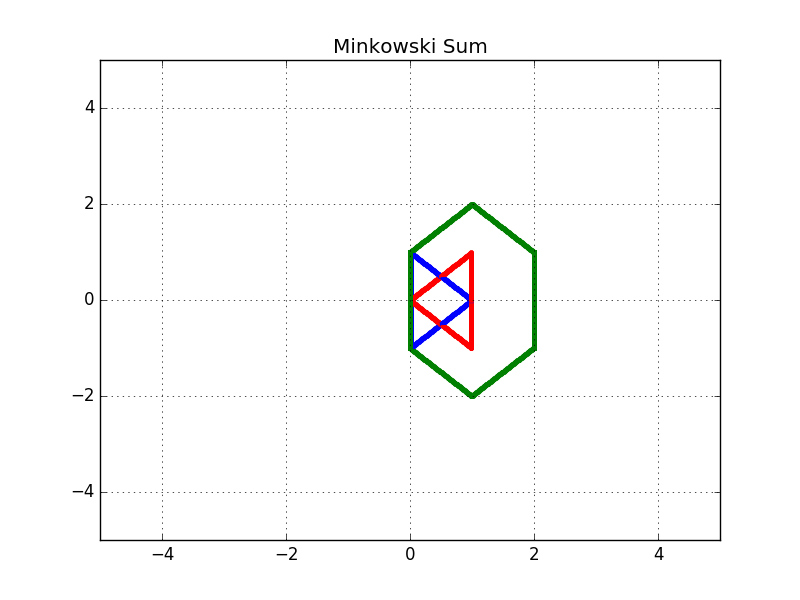
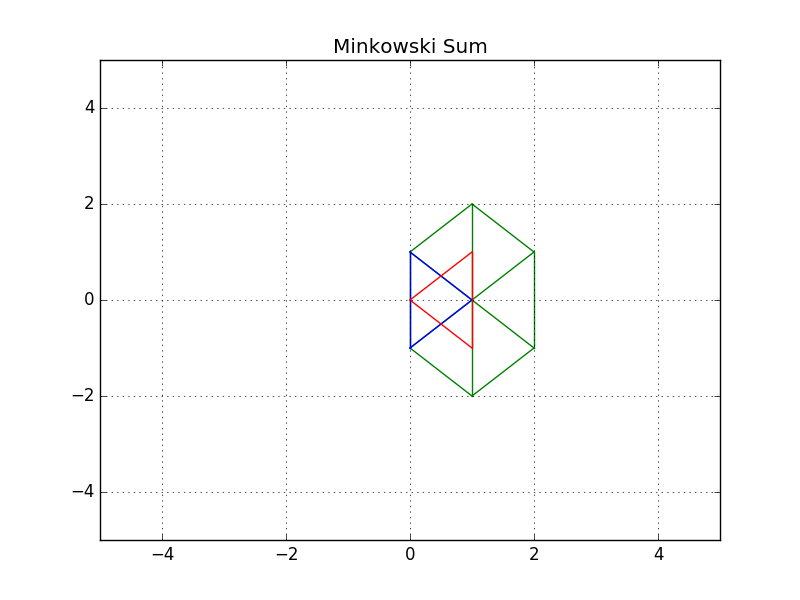
Updated Graphics

Changed region(s): [[0.5, 0.33, 0.6875, 0.66], [0.625, 0.6, 0.6562, 0.63]]

diff --git a/minkowski_sum.cpp b/minkowski_sum.cpp
@@ -7,7 +7,7 @@ using namespace std;
 namespace plt = matplotlibcpp;
 
 // Print 2D vectors coordinate values
-void print2DVector(vector<vector<int> > vec)
+void print2DVector(vector<vector<double> > vec)
 {
     for (int i = 0; i < vec.size(); ++i) {
         cout << "(";
@@ -22,12 +22,12 @@ void print2DVector(vector<vector<int> > vec)
 }
 
 // Check for duplicate inside a 2D vector and delete them
-vector<vector<int> > delete_duplicate(vector<vector<int> > C)
+vector<vector<double> > delete_duplicate(vector<vector<double> > C)
 {
     // Sort the C vector
     sort(C.begin(), C.end());
     // Initialize a non duplicated vector
-    vector<vector<int> > Cn;
+    vector<vector<double> > Cn;
     for (int i = 0; i < C.size() - 1; i++) {
         // Check if it's a duplicate coordinate
         if (C[i] != C[i + 1]) {
@@ -39,13 +39,13 @@ vector<vector<int> > delete_duplicate(vector<vector<int> > C)
 }
 
 // Compute the minkowski sum of two vectors
-vector<vector<int> > minkowski_sum(vector<vector<int> > A, vector<vector<int> > B)
+vector<vector<double> > minkowski_sum(vector<vector<double> > A, vector<vector<double> > B)
 {
-    vector<vector<int> > C;
+    vector<vector<double> > C;
     for (int i = 0; i < A.size(); i++) {
         for (int j = 0; j < B.size(); j++) {
             // Compute the current sum
-            vector<int> Ci = { A[i][0] + B[j][0], A[i][1] + B[j][1] };
+            vector<double> Ci = { A[i][0] + B[j][0], A[i][1] + B[j][1] };
             // Push it to the C vector
             C.push_back(Ci);
         }
@@ -54,8 +54,45 @@ vector<vector<int> > minkowski_sum(vector<vector<int> > A, vector<vector<int> > 
     return C;
 }
 
+// Workout the combination: http://rosettacode.org/wiki/Combinations#C.2B.2B
+vector<vector<double> > generate_combinations(int N)
+{
+    int K = 2;
+    vector<vector<double> > comb;
+    std::string bitmask(K, 1); // K leading 1's
+    bitmask.resize(N, 0); // N-K trailing 0's
+
+    // print integers and permute bitmask
+    do {
+        vector<double> combi = { 0, 0 };
+        int j = 0;
+        for (int i = 0; i < N; ++i) // [0..N-1] integers
+        {
+            if (bitmask[i]) {
+                combi[j] = i;
+                j++;
+            }
+        }
+        comb.push_back(combi);
+    } while (std::prev_permutation(bitmask.begin(), bitmask.end()));
+
+    return comb;
+}
+
+// Process the combinations of a shape and plot its coordinates
+void plot(vector<vector<double> > vec, string color)
+{
+
+    vector<vector<double> > comb;
+    comb = generate_combinations(vec.size());
+    for (int i = 0; i < comb.size(); i++) {
+        if (abs(vec[comb[i][0]][1] - vec[comb[i][1]][1]) <= 2 && abs(vec[comb[i][0]][0] - vec[comb[i][1]][0]) <= 1)
+            plt::plot({ vec[comb[i][0]][0], vec[comb[i][1]][0] }, { vec[comb[i][0]][1], vec[comb[i][1]][1] }, color);
+    }
+}
+
 // Draw A, B and C shapes
-void draw_shapes()
+void draw_shapes(vector<vector<double> > A, vector<vector<double> > B, vector<vector<double> > C)
 {
     //Graph Format
     plt::title("Minkowski Sum");
@@ -63,50 +100,14 @@ void draw_shapes()
     plt::ylim(-5, 5);
     plt::grid(true);
 
-    // Define precision for floating point values
-    double prec = 0.01;
+    // Draw configuration space C
+    plot(C, "g-");
 
-    // Loop through all the pixels and draw the shapes
-    for (double x = 0; x <= 2; x += 0.01) {
-        for (double y = -2; y <= 2; y += 0.01) {
-            // Draw A shape
-            if (x >= 0 && x <= 1 && y >= -1 && y <= 1) {
-                if (abs(y + x - 1) < prec || abs(y - x + 1) < prec || x <= prec)
-                    plt::plot({ x }, { y }, "b.");
-            }
-            // Draw B shape
-            if (x >= 0 && x <= 1 && y >= -1 && y <= 1) {
-                if (abs(y - x) < 0.01 || abs(y + x) < 0.01 || abs(x - 1) <= 0.01)
-                    plt::plot({ x }, { y }, "r.");
-            }
-            // Draw C shape
-            if (y >= -1 && y <= 1) {
-                plt::plot({ 0 }, { y }, "g.");
-            }
+    // Draw triangle A
+    plot(A, "b-");
 
-            if (y >= -1 && y <= 1) {
-                plt::plot({ 2 }, { y }, "g.");
-            }
-
-            if (x >= 0 && x <= 1 && y >= 1 && y <= 2) {
-                if (abs(y - x - 1) < 0.01)
-                    plt::plot({ x }, { y }, "g.");
-            }
-            if (x >= 0 && x <= 1 && y >= -2 && y <= -1) {
-                if (abs(y + x + 1) < 0.01)
-                    plt::plot({ x }, { y }, "g.");
-            }
-            if (x >= 1 && x <= 2 && y >= 1 && y <= 2) {
-                if (abs(y + x - 3) < 0.01)
-                    plt::plot({ x }, { y }, "g.");
-            }
-            if (x >= 1 && x <= 2 && y >= -2 && y <= -1) {
-                if (abs(y - x + 3) < 0.01)
-                    plt::plot({ x }, { y }, "g.");
-            }
-            
-        }
-    }
+    // Draw triangle B
+    plot(B, "r-");
 
     //Save the image and close the plot
     plt::save("./Images/Minkowski_Sum.png");
@@ -116,20 +117,24 @@ void draw_shapes()
 int main()
 {
     // Define the coordinates of triangle A and B in 2D vectors
-    vector<vector<int> > A(3, vector<int>(2));
-    A = {{ 1, 0 }, { 0, 1 }, { 0, -1 },};
-    vector<vector<int> > B(3, vector<int>(2));
-    B = {{ 0, 0 }, { 1, 1 }, { 1, -1 },};
+    vector<vector<double> > A(3, vector<double>(2));
+    A = {
+        { 1, 0 }, { 0, 1 }, { 0, -1 },
+    };
+    vector<vector<double> > B(3, vector<double>(2));
+    B = {
+        { 0, 0 }, { 1, 1 }, { 1, -1 },
+    };
 
-    // Compute the minkowski sum of triangle A and B
-    vector<vector<int> > C;
+    // Compute the Minkowski Sum of triangle A and B
+    vector<vector<double> > C;
     C = minkowski_sum(A, B);
 
     // Print the resulting vector
     print2DVector(C);
 
-    // Draw all the shapes 
-    draw_shapes();
+    // Draw all the shapes
+    draw_shapes(A, B, C);
 
     return 0;
 }
